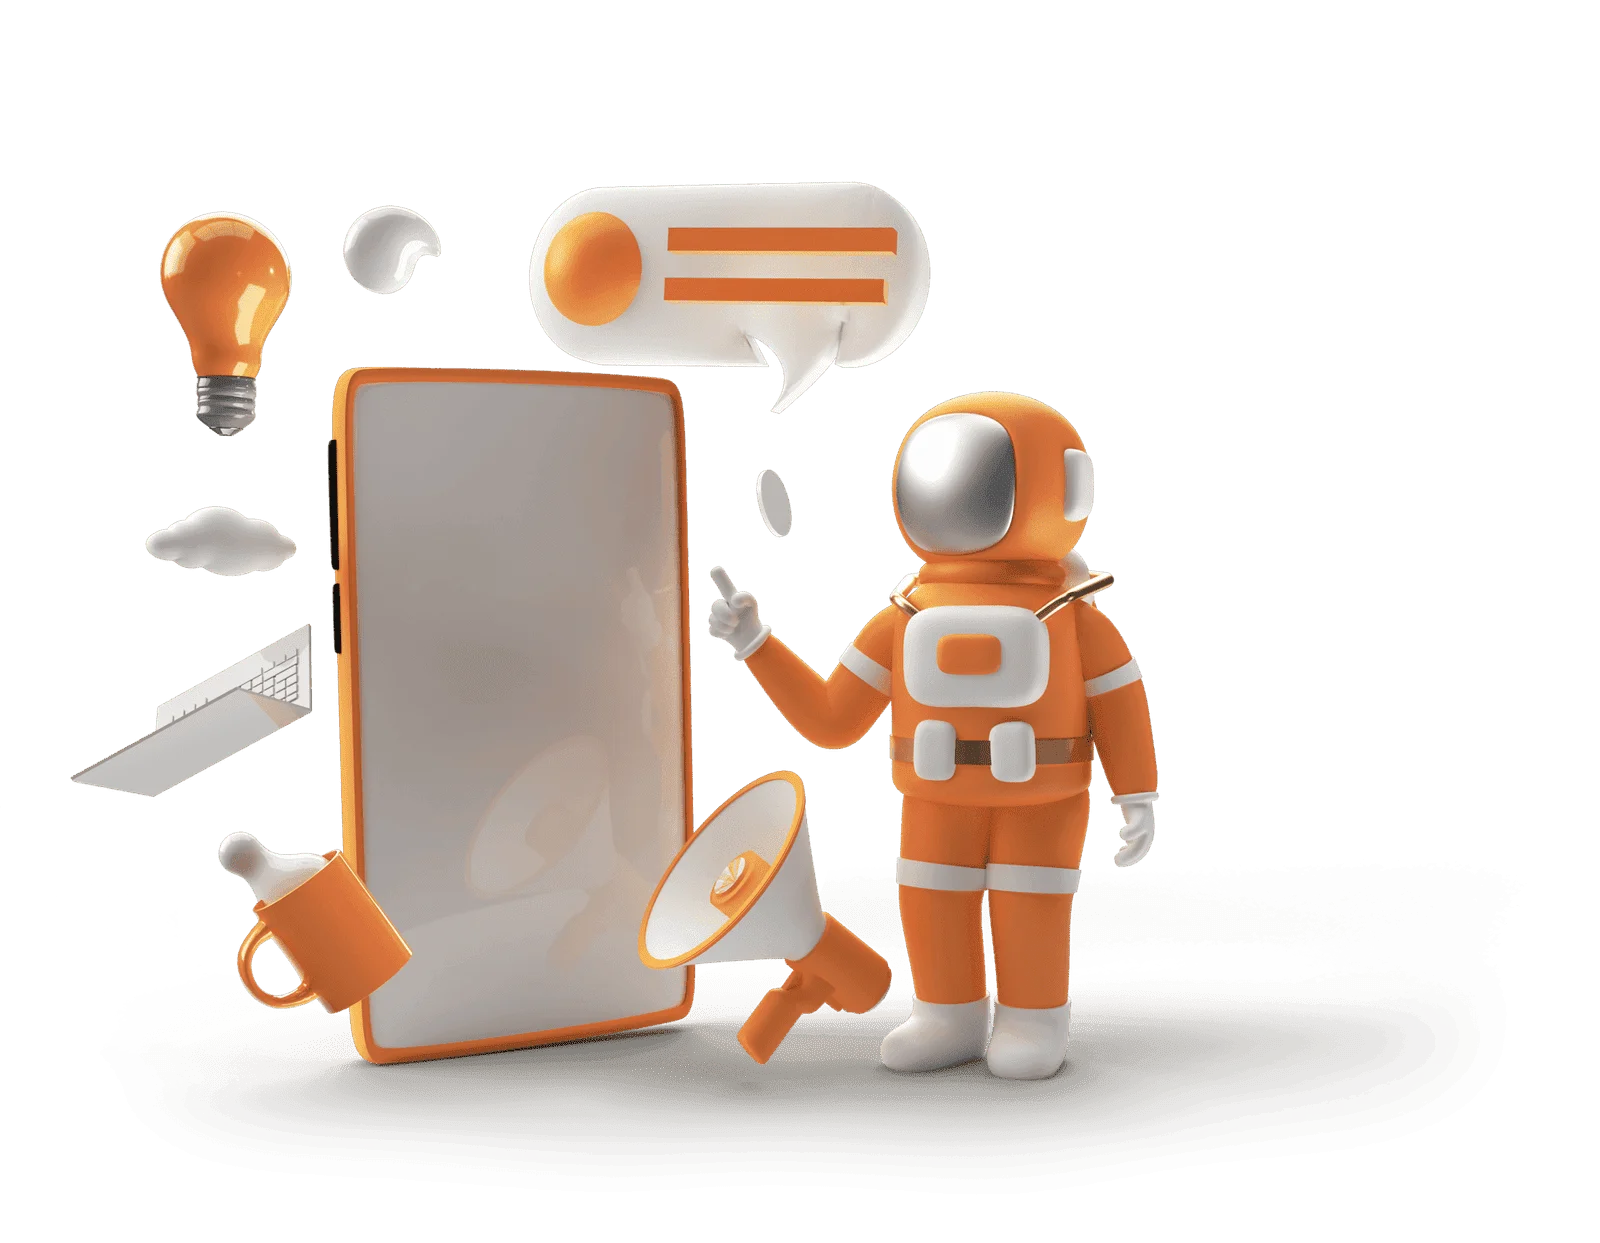
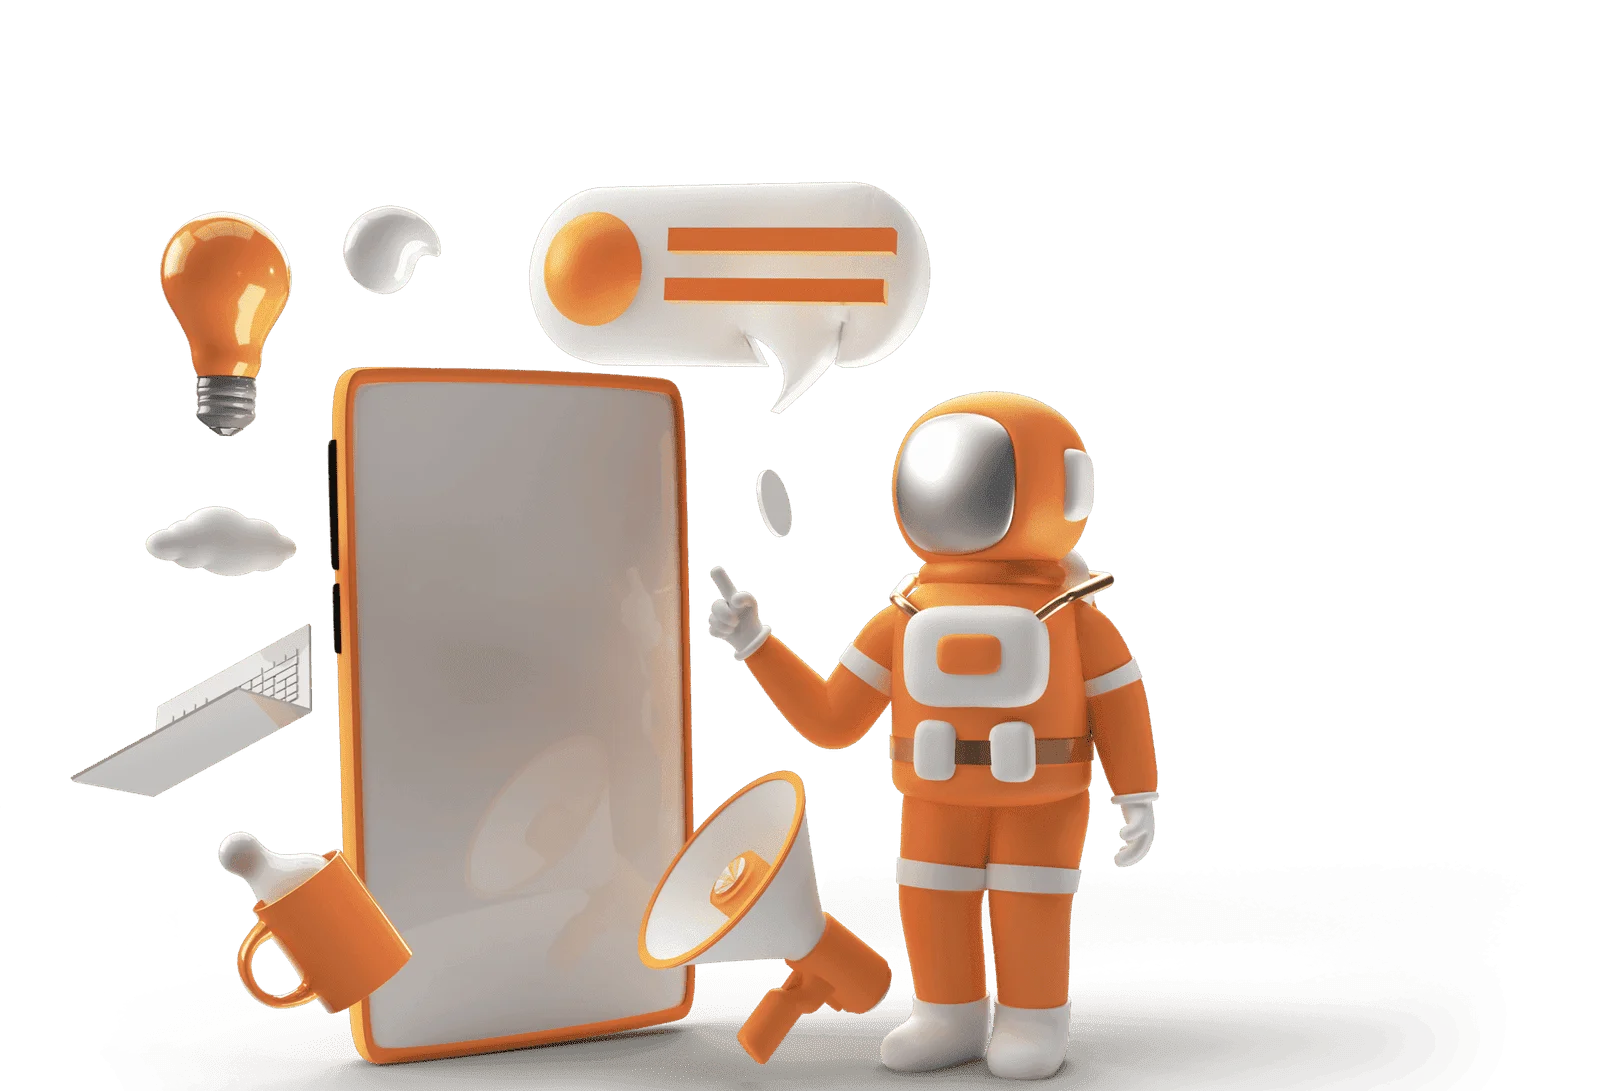
Alignment

Changed region(s): [[0.0312, 0.1247, 0.875, 1.0]]

diff --git a/src/App.css b/src/App.css
@@ -7,12 +7,12 @@ body {
 }
 
 section {
-  padding: 0 6% 70px;
+  padding-left: 80px;
+  padding-right: 80px;
 }
 
 p {
   font-size: 20px;
-  font-style: normal;
   line-height: 30px;
 }
 
@@ -149,18 +149,8 @@ h4 {
 
 
 /* ==========================================================================
-   4. Hero Component
+   4. Hero Component and Waves
    ========================================================================== */
-.hero {
-  min-height: 100vh;
-  padding: 0 5% 70px;
-  display: grid;
-  grid-template-columns: 1fr 1fr;
-  align-items: center;
-  gap: 60px;
-  background: #ffc363;
-  color: #111;
-}
 
 /* ..........1st Wave.......... */
 .custom-shape-divider-top-1788603728 {
@@ -247,8 +237,19 @@ h4 {
 }
 
 .custom-shape-divider-top-1788603399 .shape-fill {
-    fill: #ECF2F7;
+    fill: #e1ebf1;
 }
+
+.hero {
+  /* min-height: 100vh; */
+  display: grid;
+  grid-template-columns: 1fr 1fr;
+  align-items: center;
+  gap: 60px;
+  background: #ffc363;
+  color: #111;
+}
+
 
 .hero-label {
   color: #f36f21;
@@ -256,7 +257,6 @@ h4 {
 
 .hero h1 {
   font-weight: 700;
-  font-family: system-ui, -apple-system, BlinkMacSystemFont, 'Segoe UI', Roboto, sans-serif;
   color: #111;
 }
 
@@ -266,7 +266,6 @@ h4 {
 
 .hero-description {
   max-width: 600px;
-  margin: 30px auto;
   font-size: 20px;
   line-height: 1.6;
 }
@@ -275,10 +274,6 @@ h4 {
   max-width: 700px;
 }
 
-.hero-spacing {
-  padding-top: 20px;
-  padding-bottom: 40px;
-}
 
 .hero-button {
   display: inline-block;
@@ -344,11 +339,10 @@ h4 {
 
 .centered-section {
   text-align: center;
-  padding-top: 30px;
 }
 
 .centered-desc {
-  text-align: center;
+  /* text-align: center; */
   font-size: 18px;
   padding-bottom: 40px;
 }
@@ -361,7 +355,7 @@ h4 {
    6. Testimonials & Cards
    ========================================================================== */
 .testimonials {
-  padding-top: 100px;
+  padding-top: 80px;
   min-height: 100vh;
   width: 100%;
   background: #f4f4f4;
@@ -400,6 +394,10 @@ h4 {
   object-fit: cover;
 }
 
+.cards-view {
+  padding-left: 0;
+  padding-right: 0;
+}
 
 .card {
   width: 24rem !important;
@@ -413,15 +411,12 @@ h4 {
 .cards-wrapper,
 .card-wrapper {
   display: flex;
-  justify-content: space-evenly;
+  /* justify-content: space-evenly; */
   margin-top: 10px;
   gap: 60px;
+  
 }
 
-.card-wrapper {
-  padding-left: 5rem !important;
-  padding-right: 5rem !important;
-}
 
 .cards-text {
   font-size: 10px;
@@ -442,8 +437,6 @@ h4 {
    7. Expertise Section
    ========================================================================== */
 .expertise {
-  /* padding: 0 5%; */
-  /* margin-top: 100px; */
   background: #ec9a03;
 }
 
@@ -492,12 +485,12 @@ h4 {
    ========================================================================== */
 .why-choose {
   min-height: 100vh;
-  padding: 0 5% 10px;
   display: grid;
   grid-template-columns: 1fr 1fr;
   align-items: center;
   gap: 10px;
   color: #111;
+  
 }
 
 .why-choose .content {
@@ -569,7 +562,7 @@ h4 {
   display: grid;
   grid-template-columns: repeat(2, 1fr);
   grid-template-rows: repeat(5, 1fr);
-  gap: 60px;
+  gap: 40px;
 }
 
 .frequentlySect1 h5 {
@@ -631,7 +624,6 @@ h4 {
   display: flex;
   justify-content: space-between;
   align-items: center;
-  padding: 30px 5%;
   margin-top: 40px;
 }
 
@@ -662,15 +654,17 @@ h4 {
 /* ==========================================================================
    10. Media Queries (Responsive Layouts)
    ========================================================================== */
-@media (max-width: 900px) {
-  .card-row {
-    grid-template-columns: repeat(2, 1fr);
-  }
-}
+
 
 @media (max-width: 768px) {
+.card-row {
+    display: grid;
+    grid-template-columns: repeat(2, 1fr);
+    gap: 12px;
+  }
+  
   .hero {
-    min-height: 100vh;
+    min-height: auto;
     padding: 120px 5% 60px;
     grid-template-columns: 1fr;
     gap: 40px;
@@ -704,18 +698,22 @@ h4 {
 
 
   .why-choose {
-    min-height: 100vh;
-    padding: 0 5% 10%;
-    grid-template-columns: 1fr;
+   padding: 40px 24px;
   }
 
-  .why-choose .content {
+  .why-choose img {
+    margin-bottom: 15px;
+  }
+
+  /* .why-choose .content {
     max-width: 800px;
     justify-content: center;
-  }
+  } */
 
   .grid-container {
-    grid-template-columns: repeat(2, 1fr);
+    /* grid-template-columns: repeat(2, 1fr); */
+    grid-template-columns: 1fr;
+        gap: 25px;
   }
 
   .grid-item h4 {
@@ -770,6 +768,13 @@ h4 {
   .navbar-fluid {
     padding-left: 20px !important;
     padding-right: 20px !important;
+  }
+
+  .blogs-wrapper {
+    display: flex;
+    overflow-x: auto;
+    gap: 12px;
+    padding: 0;
   }
 
   /* Trusted Brands */

diff --git a/src/components/Footer.jsx b/src/components/Footer.jsx
@@ -7,21 +7,19 @@ function Footer(){
         <section className='footer-section'>
             <div className="footer">
                 <div>
-                <ul>
-                    <h3>Services</h3>
+                    <h3>Services</h3><br />
+                    <small>Digital Marketing <br />
 
-                    <li>Digital Marketing</li>
+                    Social Media Management <br />
 
-                    <li>Social Media Management </li>
+                    Website Development <br />
 
-                    <li>Website Development</li>
+                    Logo & Branding <br />
 
-                    <li>Logo & Branding</li>
+                    Creative Design <br />
 
-                    <li>Creative Design</li>
-
-                    <li>SEO</li>
-                </ul>
+                    SEO <br />
+                    </small>
                 </div>
                 <div>
                 <p className='justified-text'>Mindstory – A trusted digital marketing agency Kerala with 10+ years of expertise, delivering creative strategies, measurable results, and lasting brand growth for businesses across industries. Your success story starts here.</p>
@@ -29,8 +27,10 @@ function Footer(){
                 <div className='footer-column'>
                     <address className='footer-address'>
                         <div className="address-contact">
-                            <a href="tel:+918281001410 ">+91-8281001410</a>
-                            <a href="mailto:hello@mindstory.in">hello@mindstory.in</a>
+                            {/* <a href="tel:+918281001410 ">+91-8281001410</a>
+                            <a href="mailto:hello@mindstory.in">hello@mindstory.in</a> */}
+                            <p>+91-8281001410</p>
+                            <p>hello@mindstory.in</p>
                             <p>Working Hours - MON–FRI | 10AM to 6PM</p>
                         </div>
                     </address>
@@ -51,8 +51,6 @@ function Footer(){
                     <a href="/privacy-policy">Privacy Policy | Terms & Conditions</a>
                 </div>
                 </div>
-                
-            
         </section>
         </>
     )

diff --git a/src/components/Expertise.jsx b/src/components/Expertise.jsx
@@ -14,7 +14,7 @@ function Expertise(){
         <path d="M321.39,56.44c58-10.79,114.16-30.13,172-41.86,82.39-16.72,168.19-17.73,250.45-.39C823.78,31,906.67,72,985.66,92.83c70.05,18.48,146.53,26.09,214.34,3V0H0V27.35A600.21,600.21,0,0,0,321.39,56.44Z" className="shape-fill"></path>
     </svg>
         </div>
-        <section className="expertise" >
+        <section className="expertise">
             <div className="expertise-container">
                 <div className="expertise-heading">
                     <h2>
@@ -24,7 +24,7 @@ function Expertise(){
                 </div>
 
                 <div className="card-row cards-view">
-                    <div className="card-expertise"><img src={social} alt="" className="card-img"/><h4>Social Media Marketing</h4></div>
+                    <div className="card-expertise "><img src={social} alt="" className="card-img"/><h4>Social Media Marketing</h4></div>
                     <div className="card-expertise"><img src={seo} alt="" className="card-img"/><h4>Search Engine Optimization</h4></div>
                     <div className="card-expertise"><img src={ad} alt="" className="card-img"/><h4>Digital Advertising</h4></div>
                     <div className="card-expertise"><img src={web} alt="" className="card-img"/><h4>Web Development</h4></div>

diff --git a/src/components/Hero.jsx b/src/components/Hero.jsx
@@ -5,26 +5,20 @@ function Hero() {
   return (
     <>
     <section className="hero">
-
       <div className="hero-content">
-
         <h1 className="title">
           Top Digital Marketing Agency in Kerala 
         </h1>
-
         <p className="justified-text hero-spacing">
           At Mindstory, we help businesses in Kerala grow through data-driven digital marketing strategies. From SEO and social media to web development and branding, we provide full-funnel solutions that deliver real results and lasting impact.
         </p>
-
         <a href="#contact" className="hero-button">
           Get Free Advice
         </a>
       </div>
-
       <div className="hero-image">
         <img src={heroImage} alt="Digital marketing" />
       </div>
-     
     </section>
     </>
   );

diff --git a/src/components/SuccessStories.jsx b/src/components/SuccessStories.jsx
@@ -23,8 +23,8 @@ function SuccessStories(){
             <div id="carouselExampleFade" className="carousel slide carousel-fade">
                 <div className="carousel-inner">
                         <div className="carousel-item active">
-                            <div className="cards-wrapper">
-                                <div className="card">
+                            <div className="cards-wrapper cards-view">
+                                <div className="card ">
                                     <img src={kairali} className="card-image" alt="" />
                                 </div>
                                  <div className="card">

diff --git a/src/components/TrustedBrands.jsx b/src/components/TrustedBrands.jsx
@@ -20,7 +20,7 @@ function TrustedBrands(){
              <div id="carouselExampleFade" className="carousel slide carousel-fade" data-bs-ride="carousel" data-bs-interval="3000">
                 <div className="carousel-inner">
                         <div className='carousel-item active'>
-                            <div className="card-wrapper">
+                            <div className="card-wrapper cards-view">
                                 <div className="card">
                                     <img src={allen} className="card-img-top" alt="" />
                                 </div>
